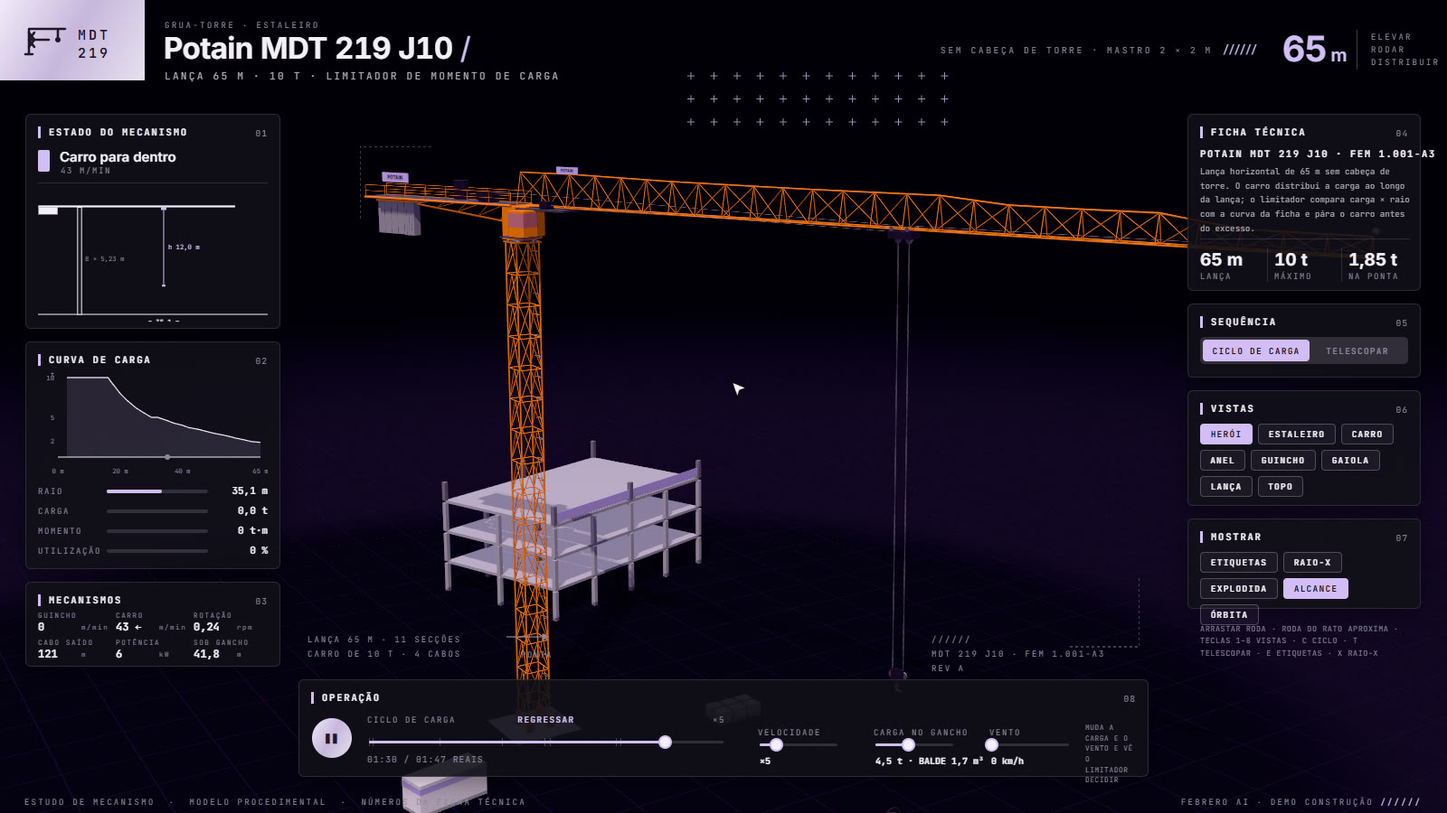
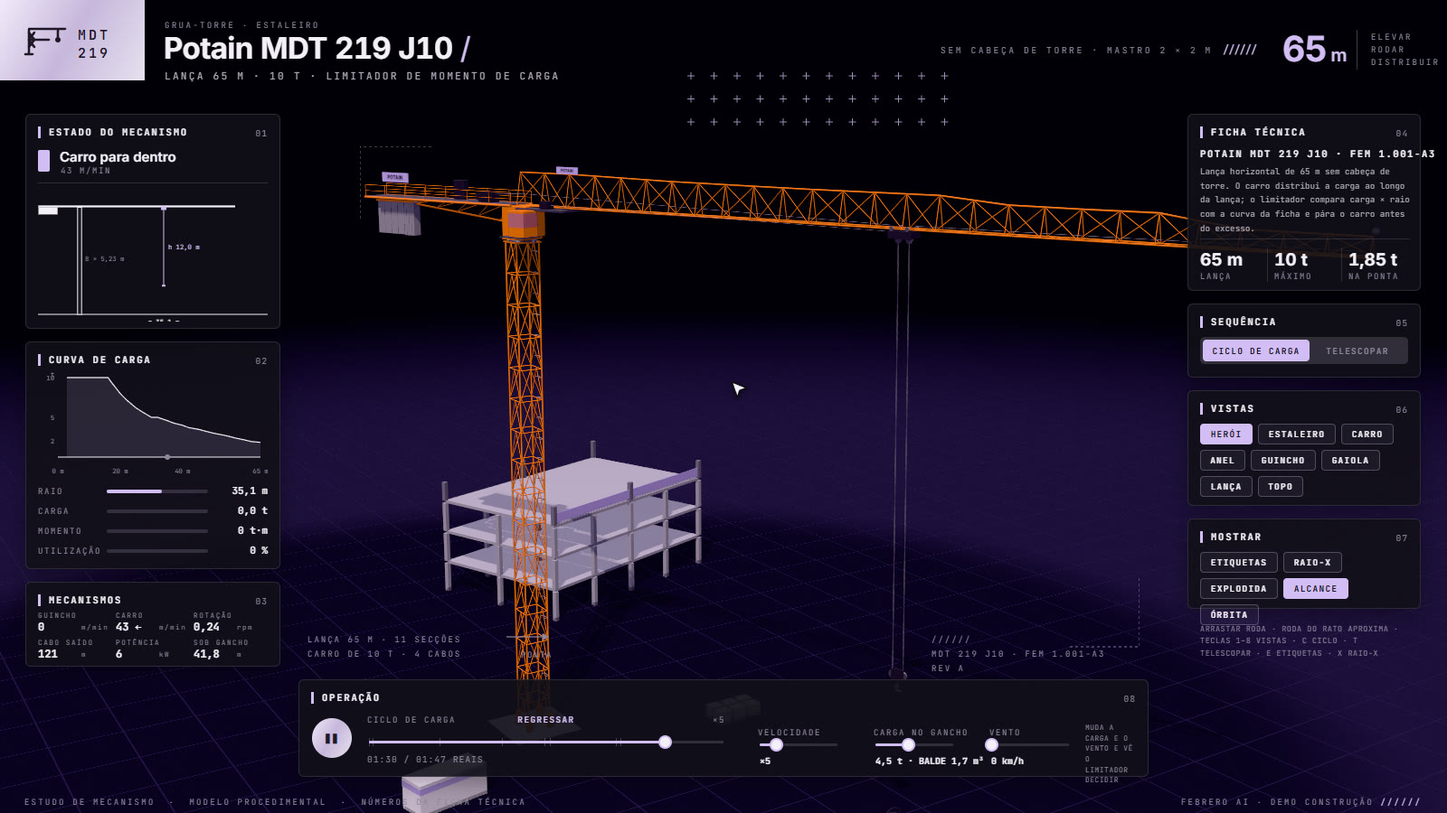
Crane page: lighter stage floor so the slab grid gives depth, phone hint under the frame

Changed region(s): [[0.1875, 0.4356, 0.8438, 0.7467], [0.8438, 0.56, 1.0, 1.0], [0.0, 0.56, 0.0312, 0.7467]]

diff --git a/demo/grua/simulador.html b/demo/grua/simulador.html
@@ -4881,7 +4881,7 @@ void main() {
 
 			#endif
 
-		}`};var rl=class extends cn{constructor(){super(),this.isOutputPass=!0,this.uniforms=Rn.clone(Xr.uniforms),this.material=new ws({name:Xr.name,uniforms:this.uniforms,vertexShader:Xr.vertexShader,fragmentShader:Xr.fragmentShader}),this._fsQuad=new Ui(this.material),this._outputColorSpace=null,this._toneMapping=null}render(t,e,n){this.uniforms.tDiffuse.value=n.texture,this.uniforms.toneMappingExposure.value=t.toneMappingExposure,(this._outputColorSpace!==t.outputColorSpace||this._toneMapping!==t.toneMapping)&&(this._outputColorSpace=t.outputColorSpace,this._toneMapping=t.toneMapping,this.material.defines={},re.getTransfer(this._outputColorSpace)===ge&&(this.material.defines.SRGB_TRANSFER=""),this._toneMapping===yr?this.material.defines.LINEAR_TONE_MAPPING="":this._toneMapping===Mr?this.material.defines.REINHARD_TONE_MAPPING="":this._toneMapping===Sr?this.material.defines.CINEON_TONE_MAPPING="":this._toneMapping===br?this.material.defines.ACES_FILMIC_TONE_MAPPING="":this._toneMapping===Tr?this.material.defines.AGX_TONE_MAPPING="":this._toneMapping===Yi?this.material.defines.NEUTRAL_TONE_MAPPING="":this._toneMapping===Er&&(this.material.defines.CUSTOM_TONE_MAPPING=""),this.material.needsUpdate=!0),this.renderToScreen===!0?(t.setRenderTarget(null),this._fsQuad.render(t)):(t.setRenderTarget(e),this.clear&&t.clear(t.autoClearColor,t.autoClearDepth,t.autoClearStencil),this._fsQuad.render(t))}dispose(){this.material.dispose(),this._fsQuad.dispose()}};var al=class extends cn{constructor(t,e,n=null,s=null,r=null){super(),this.scene=t,this.camera=e,this.overrideMaterial=n,this.clearColor=s,this.clearAlpha=r,this.clear=!0,this.clearDepth=!1,this.needsSwap=!1,this.isRenderPass=!0,this._oldClearColor=new Wt}render(t,e,n){let s=t.autoClear;t.autoClear=!1;let r,a;this.overrideMaterial!==null&&(a=this.scene.overrideMaterial,this.scene.overrideMaterial=this.overrideMaterial),this.clearColor!==null&&(t.getClearColor(this._oldClearColor),t.setClearColor(this.clearColor,t.getClearAlpha())),this.clearAlpha!==null&&(r=t.getClearAlpha(),t.setClearAlpha(this.clearAlpha)),this.clearDepth==!0&&t.clearDepth(),t.setRenderTarget(this.renderToScreen?null:n),this.clear===!0&&t.clear(t.autoClearColor,t.autoClearDepth,t.autoClearStencil),t.render(this.scene,this.camera),this.clearColor!==null&&t.setClearColor(this._oldClearColor),this.clearAlpha!==null&&t.setClearAlpha(r),this.overrideMaterial!==null&&(this.scene.overrideMaterial=a),t.autoClear=s}};var $r=new V;function Pn(i,t,e,n,s,r){let a=2*Math.PI*s/4,o=Math.max(r-2*s,0),c=Math.PI/4;$r.copy(t),$r[n]=0,$r.normalize();let l=.5*a/(a+o),u=1-$r.angleTo(i)/c;return Math.sign($r[e])===1?u*l:o/(a+o)+l+l*(1-u)}var ui=class i extends ce{constructor(t=1,e=1,n=1,s=2,r=.1){let a=s*2+1;if(r=Math.min(t/2,e/2,n/2,r),super(1,1,1,a,a,a),this.type="RoundedBoxGeometry",this.parameters={width:t,height:e,depth:n,segments:s,radius:r},a===1)return;let o=this.toNonIndexed();this.index=null,this.attributes.position=o.attributes.position,this.attributes.normal=o.attributes.normal,this.attributes.uv=o.attributes.uv;let c=new V,l=new V,u=new V(t,e,n).divideScalar(2).subScalar(r),f=this.attributes.position.array,h=this.attributes.normal.array,p=this.attributes.uv.array,_=f.length/6,y=new V,m=.5/a;for(let d=0,S=0;d<f.length;d+=3,S+=2)switch(c.fromArray(f,d),l.copy(c),l.x-=Math.sign(l.x)*m,l.y-=Math.sign(l.y)*m,l.z-=Math.sign(l.z)*m,l.normalize(),f[d+0]=u.x*Math.sign(c.x)+l.x*r,f[d+1]=u.y*Math.sign(c.y)+l.y*r,f[d+2]=u.z*Math.sign(c.z)+l.z*r,h[d+0]=l.x,h[d+1]=l.y,h[d+2]=l.z,Math.floor(d/_)){case 0:y.set(1,0,0),p[S+0]=Pn(y,l,"z","y",r,n),p[S+1]=1-Pn(y,l,"y","z",r,e);break;case 1:y.set(-1,0,0),p[S+0]=1-Pn(y,l,"z","y",r,n),p[S+1]=1-Pn(y,l,"y","z",r,e);break;case 2:y.set(0,1,0),p[S+0]=1-Pn(y,l,"x","z",r,t),p[S+1]=Pn(y,l,"z","x",r,n);break;case 3:y.set(0,-1,0),p[S+0]=1-Pn(y,l,"x","z",r,t),p[S+1]=1-Pn(y,l,"z","x",r,n);break;case 4:y.set(0,0,1),p[S+0]=1-Pn(y,l,"x","y",r,t),p[S+1]=1-Pn(y,l,"y","x",r,e);break;case 5:y.set(0,0,-1),p[S+0]=Pn(y,l,"x","y",r,t),p[S+1]=1-Pn(y,l,"y","x",r,e);break}}static fromJSON(t){return new i(t.width,t.height,t.depth,t.segments,t.radius)}};var Mn=V,Fi=Math.PI/180,Iu=1.5,Og=.6,Lu=Og+It.balde.altura,yn={amarelo:"#f6811e",escuro:"#3b3747",aco:"#c3bdd2",betao:"#a9a3b6",vidro:"#b9a8e6",vermelho:"#c8b4f9",branco:"#ebe5f4"},Bg=()=>({amarelo:new wn({color:yn.amarelo,roughness:.52,metalness:.08,clearcoat:.25,clearcoatRoughness:.4}),amareloMastro:new wn({color:yn.amarelo,roughness:.55,metalness:.08}),escuro:new wn({color:yn.escuro,roughness:.45,metalness:.3,clearcoat:.3}),aco:new dn({color:yn.aco,roughness:.45,metalness:.9}),cabo:new dn({color:"#a39cb3",roughness:.6,metalness:.6}),betao:new dn({color:yn.betao,roughness:.92,metalness:0}),betaoFresco:new dn({color:"#7d778c",roughness:.95,metalness:0}),lastro:new dn({color:"#9993a6",roughness:.9,metalness:0}),vidro:new wn({color:yn.vidro,roughness:.1,metalness:0,transmission:.6,transparent:!0,opacity:.75}),vermelho:new wn({color:yn.vermelho,roughness:.45,metalness:.05,clearcoat:.3}),branco:new dn({color:yn.branco,roughness:.7,metalness:0}),deck:new dn({color:"#565166",roughness:.85,metalness:.2}),borracha:new dn({color:"#2a2733",roughness:.85,metalness:0}),caixaAnel:new wn({color:yn.amarelo,roughness:.5,metalness:.08}),caixaGuincho:new wn({color:yn.escuro,roughness:.45,metalness:.3}),caixaCarro:new wn({color:yn.escuro,roughness:.45,metalness:.3})}),zg=new ze(1,1,1,8,1),Du=new ce(1,1,1),kg=new Mn(0,1,0),pn=class{constructor(t,e,n,s=zg){this.mesh=new sr(s,e,n),this.mesh.castShadow=!0,this.mesh.receiveShadow=!0,this.mesh.frustumCulled=!1,this.n=0,this.max=n,this.m=new ue,this.q=new Tn,this.p=new Mn,this.s=new Mn,this.d=new Mn,t.add(this.mesh)}reset(){this.n=0}add(t,e,n,s=n){if(this.n>=this.max)return;let r=t.x??t[0],a=t.y??t[1],o=t.z??t[2],c=e.x??e[0],l=e.y??e[1],u=e.z??e[2];this.d.set(c-r,l-a,u-o);let f=this.d.length();f<1e-6||(this.d.divideScalar(f),this.q.setFromUnitVectors(kg,this.d),this.p.set((r+c)/2,(a+l)/2,(o+u)/2),this.s.set(n,f,s),this.m.compose(this.p,this.q,this.s),this.mesh.setMatrixAt(this.n++,this.m))}commit(){this.mesh.count=this.n,this.mesh.instanceMatrix.needsUpdate=!0}},qr=[[0,It.lanca.seccoes[0].h],...ji.map(i=>[i.centro,i.h]),[It.lanca.comprimento,ji[ji.length-1].h]],Dc=i=>{for(let t=0;t<qr.length-1;t++){let[e,n]=qr[t],[s,r]=qr[t+1];if(i<=s)return n+(i-e)/(s-e)*(r-n)}return qr[qr.length-1][1]};function Vg(i,t="#ffffff",e=yn.vermelho,n=1024,s=256){let r=document.createElement("canvas");r.width=n,r.height=s;let a=r.getContext("2d");a.fillStyle=e,a.fillRect(0,0,n,s),a.fillStyle=t,a.font=`900 ${s*.62}px Inter, Arial, sans-serif`,a.textAlign="center",a.textBaseline="middle",a.fillText(i,n/2,s/2+s*.02);let o=new ar(r);return o.colorSpace=Xe,o.anisotropy=8,o}function Nu(){let i=Bg(),t=[],e=(tt,mt,ft,$t=!0)=>{let he=new xe(mt,ft);return he.castShadow=$t,he.receiveShadow=$t,tt.add(he),t.push(he),he},n=new be,s=It.mastro.lado,r=It.mastro.seccao.L,a=It.base,o=e(n,new ce(a.lado,a.h,a.lado),i.betao);o.position.y=-a.h/2+.02;for(let tt of[-1,1])for(let mt of[-1,1])e(n,new ce(.36,1.2,.36),i.amareloMastro).position.set(tt*s/2,.6,mt*s/2);let c=new pn(n,i.amareloMastro,40*(It.seccoesMax+1)),l=new pn(n,i.aco,30*(It.seccoesMax+1)),u=(tt,mt,ft,$t,he=1)=>{let se=s/2,pe=[[-se,-se],[se,-se],[se,se],[-se,se]];for(let[Ee,me]of pe)tt.add([ft+Ee,mt,$t+me],[ft+Ee,mt+r*he,$t+me],.07);let ye=r/2;for(let Ee=0;Ee<4;Ee++){let[me,nn]=pe[Ee],[Ye,In]=pe[(Ee+1)%4];for(let zi=0;zi<2;zi++){let Ie=mt+zi*ye,sn=Ie+ye,v=(me+Ye)/2,F=(nn+In)/2;tt.add([ft+me,sn,$t+nn],[ft+Ye,sn,$t+In],.045),tt.add([ft+me,Ie,$t+nn],[ft+v,sn,$t+F],.04),tt.add([ft+Ye,Ie,$t+In],[ft+v,sn,$t+F],.04)}}},f=(tt,mt)=>{for(let ft=0;ft<3;ft++){let $t=mt+(ft+.5)*(r/3);tt.add([s/2+.02,$t,-.35],[s/2+.3,$t,-.35],.04),tt.add([s/2+.02,$t,.35],[s/2+.3,$t,.35],.04),tt.add([s/2+.3,$t,-.35],[s/2+.3,$t,.35],.04)}},h=-1,p=-1,_=(tt,mt)=>{if(!(tt===h&&Math.abs(mt-p)<.001)){h=tt,p=mt,c.reset(),l.reset();for(let ft=0;ft<tt;ft++){let $t=ft*r+ft*1.6*mt;u(c,$t,0,0),f(l,$t)}c.commit(),l.commit()}},y=It.mastro.gaiola,m=new be;n.add(m);let d=[],S=tt=>{let mt=tt.clone();return mt.transparent=!0,d.push(mt),mt};i.gaiolaVermelho=S(i.vermelho),i.gaiolaDeck=S(i.deck),i.gaiolaEscuro=S(i.escuro),i.gaiolaAco=S(i.aco);let L=new pn(m,i.gaiolaVermelho,120);{let mt=-y.h+2.4,ft=2.4,$t=[[-1.45,-1.45],[1.45,-1.45],[1.45,1.45],[-1.45,1.45]];for(let[he,se]of $t)L.add([he,mt,se],[he,ft,se],.09);for(let he of[mt,mt+2.9,mt+5.8,ft-.3])for(let se=0;se<4;se++){let[pe,ye]=$t[se],[Ee,me]=$t[(se+1)%4];he>mt+5&&he<ft-.5&&se===1||L.add([pe,he,ye],[Ee,he,me],.06)}for(let he of[0,2,3]){let[se,pe]=$t[he],[ye,Ee]=$t[(he+1)%4];for(let me=0;me<3;me++){let nn=mt+me*2.9,Ye=nn+2.9;L.add([se,nn,pe],[ye,Ye,Ee],.04)}}for(let he of[mt+.6,ft-.8])for(let[se,pe]of $t)L.add([se*.78,he,pe*.78],[se*.78,he+.3,pe*.78],.13);L.commit()}let M=new be;M.position.y=-r,m.add(M),e(M,new ce(y.L,.12,3.2),i.gaiolaDeck).position.set(1.45+y.L/2,-.06,0);let b=new pn(M,i.gaiolaVermelho,40);for(let tt of[-1.6,1.6])b.add([1.6,0,tt],[1.6,1.1,tt],.03),b.add([1.45+y.L,0,tt],[1.45+y.L,1.1,tt],.03),b.add([1.6,1.1,tt],[1.45+y.L,1.1,tt],.03);b.add([1.45+y.L,1.1,-1.6],[1.45+y.L,1.1,1.6],.03),b.commit(),e(m,new ze(.19,.19,3.2,20),i.gaiolaEscuro).position.set(s/2+.62,-y.h+2.4+5.2,0);let x=e(m,new ze(.09,.09,1,14),i.gaiolaAco),E=e(m,new ce(.5,.16,.9),i.gaiolaEscuro),I=-1,U=tt=>{if(!(Math.abs(tt-I)<.001)){I=tt;for(let mt of d)mt.opacity=tt,mt.depthWrite=tt>.5,mt.needsUpdate=!0}},N=new be;n.add(N);let P=It.anel,D=e(N,new ze(P.diametro/2,P.diametro/2,.26,64),i.aco);D.position.y=.13;let G=e(N,new ce(s+.3,.12,s+.3),i.amareloMastro);G.position.y=0;let Z=new pn(N,i.aco,P.dentes,Du);for(let tt=0;tt<P.dentes;tt++){let mt=tt/P.dentes*Math.PI*2,ft=P.diametro/2,$t=ft+.06;Z.add([ft*Math.cos(mt),.13,ft*Math.sin(mt)],[$t*Math.cos(mt),.13,$t*Math.sin(mt)],.035,.2)}Z.commit();let W=new be;N.add(W);let j=It.pivot,q=e(W,new ce(j.l,.22,j.l),i.caixaAnel);q.position.y=Qi-.11;let Q=(P.diametro/2+.06)*(P.dentesPinhao/P.dentes)+.02,et=[];for(let tt of[-1,1]){let mt=tt*(P.diametro/2+.06+Q),ft=new be;ft.position.set(mt,.13,0),W.add(ft),e(ft,new ze(Q-.03,Q-.03,.22,24),i.aco);let $t=new pn(ft,i.aco,P.dentesPinhao,Du);for(let se=0;se<P.dentesPinhao;se++){let pe=se/P.dentesPinhao*Math.PI*2;$t.add([(Q-.04)*Math.cos(pe),0,(Q-.04)*Math.sin(pe)],[(Q+.03)*Math.cos(pe),0,(Q+.03)*Math.sin(pe)],.03,.2)}$t.commit(),e(W,new ze(.21,.24,.7,20),i.escuro).position.set(mt,Qi+.35,0),et.push(ft)}e(W,new ui(j.L*.55,j.h,j.l,3,.08),i.caixaAnel).position.set(.2,Qi+j.h/2,0);let pt=new be;pt.position.set(2,Qi+.2,j.l/2+.85),W.add(pt),e(pt,new ui(1.6,2.1,1.6,3,.06),i.amarelo).position.y=1.05,e(pt,new ce(1.62,1.1,1.62),i.vidro,!1).position.y=1.35,e(pt,new ce(2.6,.08,1.9),i.deck).position.set(-.3,-.02,.1);let at=Qi+j.h,kt=It.lanca.larguraCordas/2,R=new be;W.add(R);let B=ji.map(tt=>{let mt=new be;mt.userData.s=tt,R.add(mt);let ft=new pn(mt,i.amarelo,90),he=Math.max(1,Math.round((tt.x1-tt.x0)/2.5)),se=(tt.x1-tt.x0)/he;for(let pe=0;pe<=he;pe++){let ye=tt.x0+pe*se,Ee=at+Dc(ye);if(ft.add([ye,at,-kt],[ye,Ee,0],.035),ft.add([ye,at,kt],[ye,Ee,0],.035),pe<he){let me=ye+se,nn=at+Dc(me);ft.add([ye,at,-kt],[me,at,-kt],.062),ft.add([ye,at,kt],[me,at,kt],.062),ft.add([ye,Ee,0],[me,nn,0],.062);let Ye=(Math.round(ye/se)+tt.n)%2===0;ft.add(Ye?[ye,at,-kt]:[me,at,-kt],Ye?[me,nn,0]:[ye,Ee,0],.03),ft.add(Ye?[me,at,kt]:[ye,at,kt],Ye?[ye,Ee,0]:[me,nn,0],.03),ft.add(Ye?[ye,at,-kt]:[ye,at,kt],Ye?[me,at,kt]:[me,at,-kt],.028)}}return ft.commit(),mt});e(W,new ce(5,.16,2.9),i.deck).position.set(3.2,at-.2,0),e(W,new ce(.9,.6,.7),i.escuro).position.set(3.6,at+.2,.95);let st=e(W,new cr(.22,16,12),i.vermelho);st.position.set(65.1,at+Dc(65)+.3,0);let St=new dn({map:Vg("POTAIN","#1d1726"),roughness:.7}),Ht=(tt,mt,ft,$t,he,se,pe=.06)=>{for(let Ee of[1,-1]){let me=e(tt,new _n(mt,ft),St,!1);me.position.set($t,he,se+Ee*pe/2),me.rotation.y=Ee>0?0:Math.PI}e(tt,new ce(mt,ft,pe*.9),i.vermelho,!1).position.set($t,he,se)};Ht(W,2.2,.55,5.5,at+2.95,.56);let Mt=It.contralanca,Dt=new be;W.add(Dt);let Gt=new pn(Dt,i.amarelo,160),wt=Mt.largura/2,Jt=7;for(let tt=0;tt<=Jt;tt++){let mt=-(tt/Jt)*Mt.comprimento;if(Gt.add([mt,at,-wt],[mt,at,wt],.05),tt<Jt){let ft=-((tt+1)/Jt)*Mt.comprimento;Gt.add([mt,at,-wt],[ft,at,-wt],.11,.2),Gt.add([mt,at,wt],[ft,at,wt],.11,.2),Gt.add(tt%2?[mt,at,-wt]:[mt,at,wt],tt%2?[ft,at,wt]:[ft,at,-wt],.035),Gt.add([mt,at-1.6*(1-tt/Jt),0],[ft,at-1.6*(1-(tt+1)/Jt),0],.08),Gt.add([mt,at,-wt],[ft,at-1.6*(1-(tt+1)/Jt),0],.03),Gt.add([mt,at,wt],[ft,at-1.6*(1-(tt+1)/Jt),0],.03)}for(let ft of[-wt,wt])Gt.add([mt,at,ft],[mt,at+1.05,ft],.025)}for(let tt of[-wt,wt])Gt.add([0,at+1.05,tt],[-Mt.comprimento,at+1.05,tt],.025),Gt.add([0,at+.55,tt],[-Mt.comprimento,at+.55,tt],.02);Gt.commit(),e(Dt,new ce(Mt.comprimento,.06,Mt.largura-.3),i.deck).position.set(-Mt.comprimento/2,at+.07,0);let te=It.guincho,ee=new be;ee.position.set(-3.6,at+.1,0),Dt.add(ee);let jt=e(ee,new ui(te.L,te.h,te.l,2,.05),i.caixaGuincho);jt.position.y=te.h/2;let A=e(ee,new ze(te.tambor/2,te.tambor/2,te.l-.1,28),i.aco);A.rotation.x=Math.PI/2,A.position.y=te.h/2;let Ft=e(ee,new ce(.03,te.tambor+.02,te.l-.1),i.escuro);Ft.position.y=te.h/2;let Vt=e(ee,new ze(.28,.3,.75,20),i.escuro);Vt.rotation.x=Math.PI/2,Vt.position.set(-te.L/2-.2,te.h/2,0),e(Dt,new ui(1.2,1.6,.6,2,.04),i.escuro).position.set(-7.5,at+.9,-.7);let g=new be;Dt.add(g);let z=[];{let tt=-Mt.comprimento+.6,mt=[...Array(4).fill(It.lastro.blocos[0]),...Array(4).fill(It.lastro.blocos[1])];for(let ft of mt){let $t=e(g,new ce(ft.e,ft.L,ft.l),i.lastro);$t.position.set(tt+ft.e/2,at-.3-ft.L/2,0),$t.userData.x0=$t.position.x,z.push($t),tt+=ft.e+.03}for(let ft of[-.5,.5])e(g,new ce(4.6,.18,.12),i.amarelo).position.set(-Mt.comprimento+2.9,at-.25,ft)}Ht(Dt,3.2,.8,-Mt.comprimento+2.5,at+1.7,0,.1);let k=It.carro,Y=new be;W.add(Y);let rt=e(Y,new ui(k.L,k.h*.55,k.l,2,.04),i.caixaCarro);rt.position.y=at-.12-k.h*.55/2;for(let tt of[-1,1])for(let mt of[-1,1]){let ft=e(Y,new ze(.16,.16,.12,18),i.aco);ft.rotation.x=Math.PI/2,ft.position.set(tt*.6,at+.02,mt*(kt+.1))}for(let tt of[-1,1]){let mt=e(Y,new ze(.26,.26,.1,24),i.aco);mt.rotation.x=Math.PI/2,mt.position.set(tt*.42,at-.12-k.h*.55-.1,0)}let dt=It.moufle,J=new be;W.add(J);for(let tt of[-1,1])e(J,new ui(dt.L*.62,dt.h*.58,.05,2,.03),i.escuro).position.set(0,dt.h*.58/2+.72,tt*(dt.l/2-.03));for(let tt of[-1,1]){let mt=e(J,new ze(.3,.3,.14,24),i.aco);mt.rotation.x=Math.PI/2,mt.position.set(tt*.42,1.28,0)}let nt=e(J,new Xi(.26,.085,12,24,Math.PI*1.25),i.aco);nt.rotation.z=Math.PI*.62,nt.position.set(.1,.32,0),e(J,new ze(.075,.075,.55,12),i.aco).position.set(0,.62,0);let At=new pn(W,i.cabo,16),ct=It.balde,ht=new be;n.add(ht);let Ct=e(ht,new ze(ct.diametro/2,ct.diametro/2-.12,ct.altura-.55,28,1,!0),i.amarelo);Ct.material=i.amarelo.clone(),Ct.material.side=ln,Ct.position.y=.55+(ct.altura-.55)/2;let Bt=e(ht,new ze(ct.diametro/2-.12,.28,.55,28),i.amarelo);Bt.position.y=.275;let Xt=e(ht,new Xi(ct.diametro/2+.02,.04,8,32),i.escuro);Xt.rotation.x=Math.PI/2,Xt.position.y=ct.altura;let O=e(ht,new ze(ct.diametro/2-.08,ct.diametro/2-.1,1,28),i.betaoFresco);e(ht,new ce(.6,.06,.06),i.escuro).position.set(ct.diametro/2+.2,.6,0);let it=e(ht,new Xi(ct.diametro/2-.05,.045,8,24,Math.PI),i.escuro);it.position.y=ct.altura;let gt=new pn(ht,i.cabo,4),xt=new be;n.add(xt);let ot=new pn(xt,i.amareloMastro,40);u(ot,0,0,0),ot.commit();let Ot=new pn(xt,i.cabo,4),Lt=new On({color:"#d2bef4",transparent:!0,opacity:.55,depthWrite:!1}),ve=new On({color:yn.vermelho,transparent:!0,opacity:.8,depthWrite:!1}),ae=new xe(new Ts(.985,1,128),Lt);ae.rotation.x=-Math.PI/2,ae.position.y=.05,ae.renderOrder=5;let Ge=new xe(new Ts(.985,1,128,1),ve);Ge.rotation.x=-Math.PI/2,Ge.position.y=.06,Ge.renderOrder=5,n.add(ae,Ge);let qe=e(n,new ce(1,.02,.1),Lt,!1);qe.position.y=.055;let Zr=-1,dl=tt=>{if(!(Math.abs(tt-Zr)<.001)){Zr=tt;for(let mt of[i.caixaAnel,i.caixaGuincho,i.caixaCarro])mt.transparent=tt>.001,mt.opacity=1-.82*tt,mt.depthWrite=tt<.5,mt.needsUpdate=!0}},hn={yG:0,carroW:new Mn,moufleW:new Mn,pontaW:new Mn,guinchoW:new Mn,anelW:new Mn,gaiolaW:new Mn,cabW:new Mn,lastroW:new Mn},Sn=new Mn,Jr=tt=>{let mt=tt.explode??0;dl(tt.xray??0),_(tt.n,mt);let ft=zr(tt.n,tt.gaiola)+tt.n*1.6*mt;hn.yG=ft,N.position.y=ft,W.rotation.y=-tt.az*Fi;for(let[Ie,sn]of et.entries())sn.rotation.y=(Ie?1:-1)*tt.az*Fi*(P.dentes/P.dentesPinhao)*1+tt.az*Fi;m.position.y=ft;let $t=(tt.gaiolaVis??(tt.seccao||tt.gaiola>.01?1:0))*(1-mt);U($t),m.visible=$t>.01;let he=Math.floor((ft-tt.gaiola-8.3)/(r/3))*(r/3)+r/6,se=-y.h+2.4+5.2-1.6,pe=he-ft;x.scale.y=Math.max(.2,se-pe),x.position.set(s/2+.62,(se+pe)/2,0),E.position.set(s/2+.45,pe-.08,0);for(let Ie of B)Ie.position.x=(Ie.userData.s.n-1)*1.8*mt;Dt.position.x=-2.2*mt;for(let[Ie,sn]of z.entries())sn.position.x=sn.userData.x0-Ie*.7*mt;Y.position.x=tt.r+(tt.r>20.3?2*1.8*mt:tt.r>10.5?1.8*mt:0);let ye=tt.h-ft;J.position.set(Y.position.x+tt.thR*(ft+at-tt.h),ye,tt.thT*(ft+at-tt.h)),J.rotation.z=-tt.thR,J.rotation.x=tt.thT,At.reset();let Ee=at-.12-k.h*.55-.1;for(let Ie of[-1,1])for(let sn of[-1,1])At.add([Y.position.x+Ie*.42,Ee,sn*.05],[J.position.x+Ie*.42,J.position.y+1.28,J.position.z+sn*.05],.014);At.add([-3.6,at+.1+te.h/2+te.tambor/2,.1],[.6,at+.9,.1],.016),At.add([.6,at+.9,.1],[Y.position.x-k.L/2,at+.2,.1],.016),At.add([Y.position.x+k.L/2,at+.2,-.1],[64.6,at+.3,-.1],.016),At.add([3.6,at+.2,.95],[Y.position.x-k.L/2,at-.2,.5],.012),At.commit(),A.rotation.z=tt.cabo/(Math.PI*te.tambor)*Math.PI*2;let me=tt.carga>0&&!tt.seccao,nn=Math.max(0,tt.balde-ct.vazio),Ye=Math.min(1,nn/(ct.capacidade*ct.densidade));if(O.scale.y=Math.max(.02,Ye*(ct.altura-.6)),O.position.y=.55+O.scale.y/2,me?(J.getWorldPosition(Sn),ht.position.set(Sn.x,Sn.y-Lu,Sn.z),ht.rotation.y=-tt.az*Fi,ht.rotation.z=-tt.thR):(ht.position.set(tt.baldeX??20,.02,tt.baldeZ??0),ht.rotation.set(0,0,0)),gt.reset(),me)for(let Ie of[[-1,-1],[1,-1],[1,1],[-1,1]])gt.add([0,Lu,0],[Ie[0]*.55,ct.altura,Ie[1]*.55],.018);if(gt.commit(),xt.visible=!!tt.seccao,Ot.reset(),tt.seccao==="gancho"){J.getWorldPosition(Sn),xt.position.set(Sn.x,Sn.y-Iu-r,Sn.z),xt.rotation.y=-tt.az*Fi;for(let Ie of[[-1,-1],[1,-1],[1,1],[-1,1]])Ot.add([0,r+Iu,0],[Ie[0]*s/2,r,Ie[1]*s/2],.02)}else if(tt.seccao==="plataforma"||tt.seccao==="deslizar"){let Ie=It.telescopagem.plataforma*(1-(tt.desliza??0));xt.position.set(Ie,zr(tt.n,0),0),xt.rotation.y=0}Ot.commit();let In=tt.alcance??0;ae.visible=In>.01,Ge.visible=In>.01&&tt.carga>0,qe.visible=In>.01,ae.scale.setScalar(tt.r),Lt.opacity=.55*In,ve.opacity=.8*In;let zi=Us(tt.carga);Ge.scale.setScalar(Math.max(.1,zi)),qe.scale.x=65,qe.position.set(32.5*Math.cos(tt.az*Fi),.055,32.5*Math.sin(tt.az*Fi)),qe.rotation.y=-tt.az*Fi,Y.getWorldPosition(hn.carroW),J.getWorldPosition(hn.moufleW),st.getWorldPosition(hn.pontaW),ee.getWorldPosition(hn.guinchoW),D.getWorldPosition(hn.anelW),m.getWorldPosition(hn.gaiolaW),pt.getWorldPosition(hn.cabW),g.getWorldPosition(hn.lastroW),hn.lastroW.x-=Mt.comprimento*.8};return Jr({r:20,h:2.9,az:0,carga:0,n:It.seccoesIniciais,gaiola:0,cabo:0,balde:4.5,thR:0,thT:0}),{root:n,update:Jr,M:i,todos:t,out:hn,gir:W,giratoria:N,mastro:c,carro:Y,moufle:J,balde:ht,secNova:xt,gaiola:m,alturaSobGancho:tt=>wu(tt.n,tt.gaiola),yLanca:tt=>ts(tt.n,tt.gaiola)}}var ti=V,Bs={bg:"#0b0a10",chao:"#16141d",marca:"#2c2738",sombra:"#000000"},Gg="varying vec3 vW; void main(){ vec4 w = modelMatrix * vec4(position, 1.0); vW = w.xyz; gl_Position = projectionMatrix * viewMatrix * w; }",Hg=`uniform vec3 uG; uniform vec3 uM; uniform vec3 uBg; uniform vec3 uC; varying vec3 vW;
+		}`};var rl=class extends cn{constructor(){super(),this.isOutputPass=!0,this.uniforms=Rn.clone(Xr.uniforms),this.material=new ws({name:Xr.name,uniforms:this.uniforms,vertexShader:Xr.vertexShader,fragmentShader:Xr.fragmentShader}),this._fsQuad=new Ui(this.material),this._outputColorSpace=null,this._toneMapping=null}render(t,e,n){this.uniforms.tDiffuse.value=n.texture,this.uniforms.toneMappingExposure.value=t.toneMappingExposure,(this._outputColorSpace!==t.outputColorSpace||this._toneMapping!==t.toneMapping)&&(this._outputColorSpace=t.outputColorSpace,this._toneMapping=t.toneMapping,this.material.defines={},re.getTransfer(this._outputColorSpace)===ge&&(this.material.defines.SRGB_TRANSFER=""),this._toneMapping===yr?this.material.defines.LINEAR_TONE_MAPPING="":this._toneMapping===Mr?this.material.defines.REINHARD_TONE_MAPPING="":this._toneMapping===Sr?this.material.defines.CINEON_TONE_MAPPING="":this._toneMapping===br?this.material.defines.ACES_FILMIC_TONE_MAPPING="":this._toneMapping===Tr?this.material.defines.AGX_TONE_MAPPING="":this._toneMapping===Yi?this.material.defines.NEUTRAL_TONE_MAPPING="":this._toneMapping===Er&&(this.material.defines.CUSTOM_TONE_MAPPING=""),this.material.needsUpdate=!0),this.renderToScreen===!0?(t.setRenderTarget(null),this._fsQuad.render(t)):(t.setRenderTarget(e),this.clear&&t.clear(t.autoClearColor,t.autoClearDepth,t.autoClearStencil),this._fsQuad.render(t))}dispose(){this.material.dispose(),this._fsQuad.dispose()}};var al=class extends cn{constructor(t,e,n=null,s=null,r=null){super(),this.scene=t,this.camera=e,this.overrideMaterial=n,this.clearColor=s,this.clearAlpha=r,this.clear=!0,this.clearDepth=!1,this.needsSwap=!1,this.isRenderPass=!0,this._oldClearColor=new Wt}render(t,e,n){let s=t.autoClear;t.autoClear=!1;let r,a;this.overrideMaterial!==null&&(a=this.scene.overrideMaterial,this.scene.overrideMaterial=this.overrideMaterial),this.clearColor!==null&&(t.getClearColor(this._oldClearColor),t.setClearColor(this.clearColor,t.getClearAlpha())),this.clearAlpha!==null&&(r=t.getClearAlpha(),t.setClearAlpha(this.clearAlpha)),this.clearDepth==!0&&t.clearDepth(),t.setRenderTarget(this.renderToScreen?null:n),this.clear===!0&&t.clear(t.autoClearColor,t.autoClearDepth,t.autoClearStencil),t.render(this.scene,this.camera),this.clearColor!==null&&t.setClearColor(this._oldClearColor),this.clearAlpha!==null&&t.setClearAlpha(r),this.overrideMaterial!==null&&(this.scene.overrideMaterial=a),t.autoClear=s}};var $r=new V;function Pn(i,t,e,n,s,r){let a=2*Math.PI*s/4,o=Math.max(r-2*s,0),c=Math.PI/4;$r.copy(t),$r[n]=0,$r.normalize();let l=.5*a/(a+o),u=1-$r.angleTo(i)/c;return Math.sign($r[e])===1?u*l:o/(a+o)+l+l*(1-u)}var ui=class i extends ce{constructor(t=1,e=1,n=1,s=2,r=.1){let a=s*2+1;if(r=Math.min(t/2,e/2,n/2,r),super(1,1,1,a,a,a),this.type="RoundedBoxGeometry",this.parameters={width:t,height:e,depth:n,segments:s,radius:r},a===1)return;let o=this.toNonIndexed();this.index=null,this.attributes.position=o.attributes.position,this.attributes.normal=o.attributes.normal,this.attributes.uv=o.attributes.uv;let c=new V,l=new V,u=new V(t,e,n).divideScalar(2).subScalar(r),f=this.attributes.position.array,h=this.attributes.normal.array,p=this.attributes.uv.array,_=f.length/6,y=new V,m=.5/a;for(let d=0,S=0;d<f.length;d+=3,S+=2)switch(c.fromArray(f,d),l.copy(c),l.x-=Math.sign(l.x)*m,l.y-=Math.sign(l.y)*m,l.z-=Math.sign(l.z)*m,l.normalize(),f[d+0]=u.x*Math.sign(c.x)+l.x*r,f[d+1]=u.y*Math.sign(c.y)+l.y*r,f[d+2]=u.z*Math.sign(c.z)+l.z*r,h[d+0]=l.x,h[d+1]=l.y,h[d+2]=l.z,Math.floor(d/_)){case 0:y.set(1,0,0),p[S+0]=Pn(y,l,"z","y",r,n),p[S+1]=1-Pn(y,l,"y","z",r,e);break;case 1:y.set(-1,0,0),p[S+0]=1-Pn(y,l,"z","y",r,n),p[S+1]=1-Pn(y,l,"y","z",r,e);break;case 2:y.set(0,1,0),p[S+0]=1-Pn(y,l,"x","z",r,t),p[S+1]=Pn(y,l,"z","x",r,n);break;case 3:y.set(0,-1,0),p[S+0]=1-Pn(y,l,"x","z",r,t),p[S+1]=1-Pn(y,l,"z","x",r,n);break;case 4:y.set(0,0,1),p[S+0]=1-Pn(y,l,"x","y",r,t),p[S+1]=1-Pn(y,l,"y","x",r,e);break;case 5:y.set(0,0,-1),p[S+0]=Pn(y,l,"x","y",r,t),p[S+1]=1-Pn(y,l,"y","x",r,e);break}}static fromJSON(t){return new i(t.width,t.height,t.depth,t.segments,t.radius)}};var Mn=V,Fi=Math.PI/180,Iu=1.5,Og=.6,Lu=Og+It.balde.altura,yn={amarelo:"#f6811e",escuro:"#3b3747",aco:"#c3bdd2",betao:"#a9a3b6",vidro:"#b9a8e6",vermelho:"#c8b4f9",branco:"#ebe5f4"},Bg=()=>({amarelo:new wn({color:yn.amarelo,roughness:.52,metalness:.08,clearcoat:.25,clearcoatRoughness:.4}),amareloMastro:new wn({color:yn.amarelo,roughness:.55,metalness:.08}),escuro:new wn({color:yn.escuro,roughness:.45,metalness:.3,clearcoat:.3}),aco:new dn({color:yn.aco,roughness:.45,metalness:.9}),cabo:new dn({color:"#a39cb3",roughness:.6,metalness:.6}),betao:new dn({color:yn.betao,roughness:.92,metalness:0}),betaoFresco:new dn({color:"#7d778c",roughness:.95,metalness:0}),lastro:new dn({color:"#9993a6",roughness:.9,metalness:0}),vidro:new wn({color:yn.vidro,roughness:.1,metalness:0,transmission:.6,transparent:!0,opacity:.75}),vermelho:new wn({color:yn.vermelho,roughness:.45,metalness:.05,clearcoat:.3}),branco:new dn({color:yn.branco,roughness:.7,metalness:0}),deck:new dn({color:"#565166",roughness:.85,metalness:.2}),borracha:new dn({color:"#2a2733",roughness:.85,metalness:0}),caixaAnel:new wn({color:yn.amarelo,roughness:.5,metalness:.08}),caixaGuincho:new wn({color:yn.escuro,roughness:.45,metalness:.3}),caixaCarro:new wn({color:yn.escuro,roughness:.45,metalness:.3})}),zg=new ze(1,1,1,8,1),Du=new ce(1,1,1),kg=new Mn(0,1,0),pn=class{constructor(t,e,n,s=zg){this.mesh=new sr(s,e,n),this.mesh.castShadow=!0,this.mesh.receiveShadow=!0,this.mesh.frustumCulled=!1,this.n=0,this.max=n,this.m=new ue,this.q=new Tn,this.p=new Mn,this.s=new Mn,this.d=new Mn,t.add(this.mesh)}reset(){this.n=0}add(t,e,n,s=n){if(this.n>=this.max)return;let r=t.x??t[0],a=t.y??t[1],o=t.z??t[2],c=e.x??e[0],l=e.y??e[1],u=e.z??e[2];this.d.set(c-r,l-a,u-o);let f=this.d.length();f<1e-6||(this.d.divideScalar(f),this.q.setFromUnitVectors(kg,this.d),this.p.set((r+c)/2,(a+l)/2,(o+u)/2),this.s.set(n,f,s),this.m.compose(this.p,this.q,this.s),this.mesh.setMatrixAt(this.n++,this.m))}commit(){this.mesh.count=this.n,this.mesh.instanceMatrix.needsUpdate=!0}},qr=[[0,It.lanca.seccoes[0].h],...ji.map(i=>[i.centro,i.h]),[It.lanca.comprimento,ji[ji.length-1].h]],Dc=i=>{for(let t=0;t<qr.length-1;t++){let[e,n]=qr[t],[s,r]=qr[t+1];if(i<=s)return n+(i-e)/(s-e)*(r-n)}return qr[qr.length-1][1]};function Vg(i,t="#ffffff",e=yn.vermelho,n=1024,s=256){let r=document.createElement("canvas");r.width=n,r.height=s;let a=r.getContext("2d");a.fillStyle=e,a.fillRect(0,0,n,s),a.fillStyle=t,a.font=`900 ${s*.62}px Inter, Arial, sans-serif`,a.textAlign="center",a.textBaseline="middle",a.fillText(i,n/2,s/2+s*.02);let o=new ar(r);return o.colorSpace=Xe,o.anisotropy=8,o}function Nu(){let i=Bg(),t=[],e=(tt,mt,ft,$t=!0)=>{let he=new xe(mt,ft);return he.castShadow=$t,he.receiveShadow=$t,tt.add(he),t.push(he),he},n=new be,s=It.mastro.lado,r=It.mastro.seccao.L,a=It.base,o=e(n,new ce(a.lado,a.h,a.lado),i.betao);o.position.y=-a.h/2+.02;for(let tt of[-1,1])for(let mt of[-1,1])e(n,new ce(.36,1.2,.36),i.amareloMastro).position.set(tt*s/2,.6,mt*s/2);let c=new pn(n,i.amareloMastro,40*(It.seccoesMax+1)),l=new pn(n,i.aco,30*(It.seccoesMax+1)),u=(tt,mt,ft,$t,he=1)=>{let se=s/2,pe=[[-se,-se],[se,-se],[se,se],[-se,se]];for(let[Ee,me]of pe)tt.add([ft+Ee,mt,$t+me],[ft+Ee,mt+r*he,$t+me],.07);let ye=r/2;for(let Ee=0;Ee<4;Ee++){let[me,nn]=pe[Ee],[Ye,In]=pe[(Ee+1)%4];for(let zi=0;zi<2;zi++){let Ie=mt+zi*ye,sn=Ie+ye,v=(me+Ye)/2,F=(nn+In)/2;tt.add([ft+me,sn,$t+nn],[ft+Ye,sn,$t+In],.045),tt.add([ft+me,Ie,$t+nn],[ft+v,sn,$t+F],.04),tt.add([ft+Ye,Ie,$t+In],[ft+v,sn,$t+F],.04)}}},f=(tt,mt)=>{for(let ft=0;ft<3;ft++){let $t=mt+(ft+.5)*(r/3);tt.add([s/2+.02,$t,-.35],[s/2+.3,$t,-.35],.04),tt.add([s/2+.02,$t,.35],[s/2+.3,$t,.35],.04),tt.add([s/2+.3,$t,-.35],[s/2+.3,$t,.35],.04)}},h=-1,p=-1,_=(tt,mt)=>{if(!(tt===h&&Math.abs(mt-p)<.001)){h=tt,p=mt,c.reset(),l.reset();for(let ft=0;ft<tt;ft++){let $t=ft*r+ft*1.6*mt;u(c,$t,0,0),f(l,$t)}c.commit(),l.commit()}},y=It.mastro.gaiola,m=new be;n.add(m);let d=[],S=tt=>{let mt=tt.clone();return mt.transparent=!0,d.push(mt),mt};i.gaiolaVermelho=S(i.vermelho),i.gaiolaDeck=S(i.deck),i.gaiolaEscuro=S(i.escuro),i.gaiolaAco=S(i.aco);let L=new pn(m,i.gaiolaVermelho,120);{let mt=-y.h+2.4,ft=2.4,$t=[[-1.45,-1.45],[1.45,-1.45],[1.45,1.45],[-1.45,1.45]];for(let[he,se]of $t)L.add([he,mt,se],[he,ft,se],.09);for(let he of[mt,mt+2.9,mt+5.8,ft-.3])for(let se=0;se<4;se++){let[pe,ye]=$t[se],[Ee,me]=$t[(se+1)%4];he>mt+5&&he<ft-.5&&se===1||L.add([pe,he,ye],[Ee,he,me],.06)}for(let he of[0,2,3]){let[se,pe]=$t[he],[ye,Ee]=$t[(he+1)%4];for(let me=0;me<3;me++){let nn=mt+me*2.9,Ye=nn+2.9;L.add([se,nn,pe],[ye,Ye,Ee],.04)}}for(let he of[mt+.6,ft-.8])for(let[se,pe]of $t)L.add([se*.78,he,pe*.78],[se*.78,he+.3,pe*.78],.13);L.commit()}let M=new be;M.position.y=-r,m.add(M),e(M,new ce(y.L,.12,3.2),i.gaiolaDeck).position.set(1.45+y.L/2,-.06,0);let b=new pn(M,i.gaiolaVermelho,40);for(let tt of[-1.6,1.6])b.add([1.6,0,tt],[1.6,1.1,tt],.03),b.add([1.45+y.L,0,tt],[1.45+y.L,1.1,tt],.03),b.add([1.6,1.1,tt],[1.45+y.L,1.1,tt],.03);b.add([1.45+y.L,1.1,-1.6],[1.45+y.L,1.1,1.6],.03),b.commit(),e(m,new ze(.19,.19,3.2,20),i.gaiolaEscuro).position.set(s/2+.62,-y.h+2.4+5.2,0);let x=e(m,new ze(.09,.09,1,14),i.gaiolaAco),E=e(m,new ce(.5,.16,.9),i.gaiolaEscuro),I=-1,U=tt=>{if(!(Math.abs(tt-I)<.001)){I=tt;for(let mt of d)mt.opacity=tt,mt.depthWrite=tt>.5,mt.needsUpdate=!0}},N=new be;n.add(N);let P=It.anel,D=e(N,new ze(P.diametro/2,P.diametro/2,.26,64),i.aco);D.position.y=.13;let G=e(N,new ce(s+.3,.12,s+.3),i.amareloMastro);G.position.y=0;let Z=new pn(N,i.aco,P.dentes,Du);for(let tt=0;tt<P.dentes;tt++){let mt=tt/P.dentes*Math.PI*2,ft=P.diametro/2,$t=ft+.06;Z.add([ft*Math.cos(mt),.13,ft*Math.sin(mt)],[$t*Math.cos(mt),.13,$t*Math.sin(mt)],.035,.2)}Z.commit();let W=new be;N.add(W);let j=It.pivot,q=e(W,new ce(j.l,.22,j.l),i.caixaAnel);q.position.y=Qi-.11;let Q=(P.diametro/2+.06)*(P.dentesPinhao/P.dentes)+.02,et=[];for(let tt of[-1,1]){let mt=tt*(P.diametro/2+.06+Q),ft=new be;ft.position.set(mt,.13,0),W.add(ft),e(ft,new ze(Q-.03,Q-.03,.22,24),i.aco);let $t=new pn(ft,i.aco,P.dentesPinhao,Du);for(let se=0;se<P.dentesPinhao;se++){let pe=se/P.dentesPinhao*Math.PI*2;$t.add([(Q-.04)*Math.cos(pe),0,(Q-.04)*Math.sin(pe)],[(Q+.03)*Math.cos(pe),0,(Q+.03)*Math.sin(pe)],.03,.2)}$t.commit(),e(W,new ze(.21,.24,.7,20),i.escuro).position.set(mt,Qi+.35,0),et.push(ft)}e(W,new ui(j.L*.55,j.h,j.l,3,.08),i.caixaAnel).position.set(.2,Qi+j.h/2,0);let pt=new be;pt.position.set(2,Qi+.2,j.l/2+.85),W.add(pt),e(pt,new ui(1.6,2.1,1.6,3,.06),i.amarelo).position.y=1.05,e(pt,new ce(1.62,1.1,1.62),i.vidro,!1).position.y=1.35,e(pt,new ce(2.6,.08,1.9),i.deck).position.set(-.3,-.02,.1);let at=Qi+j.h,kt=It.lanca.larguraCordas/2,R=new be;W.add(R);let B=ji.map(tt=>{let mt=new be;mt.userData.s=tt,R.add(mt);let ft=new pn(mt,i.amarelo,90),he=Math.max(1,Math.round((tt.x1-tt.x0)/2.5)),se=(tt.x1-tt.x0)/he;for(let pe=0;pe<=he;pe++){let ye=tt.x0+pe*se,Ee=at+Dc(ye);if(ft.add([ye,at,-kt],[ye,Ee,0],.035),ft.add([ye,at,kt],[ye,Ee,0],.035),pe<he){let me=ye+se,nn=at+Dc(me);ft.add([ye,at,-kt],[me,at,-kt],.062),ft.add([ye,at,kt],[me,at,kt],.062),ft.add([ye,Ee,0],[me,nn,0],.062);let Ye=(Math.round(ye/se)+tt.n)%2===0;ft.add(Ye?[ye,at,-kt]:[me,at,-kt],Ye?[me,nn,0]:[ye,Ee,0],.03),ft.add(Ye?[me,at,kt]:[ye,at,kt],Ye?[ye,Ee,0]:[me,nn,0],.03),ft.add(Ye?[ye,at,-kt]:[ye,at,kt],Ye?[me,at,kt]:[me,at,-kt],.028)}}return ft.commit(),mt});e(W,new ce(5,.16,2.9),i.deck).position.set(3.2,at-.2,0),e(W,new ce(.9,.6,.7),i.escuro).position.set(3.6,at+.2,.95);let st=e(W,new cr(.22,16,12),i.vermelho);st.position.set(65.1,at+Dc(65)+.3,0);let St=new dn({map:Vg("POTAIN","#1d1726"),roughness:.7}),Ht=(tt,mt,ft,$t,he,se,pe=.06)=>{for(let Ee of[1,-1]){let me=e(tt,new _n(mt,ft),St,!1);me.position.set($t,he,se+Ee*pe/2),me.rotation.y=Ee>0?0:Math.PI}e(tt,new ce(mt,ft,pe*.9),i.vermelho,!1).position.set($t,he,se)};Ht(W,2.2,.55,5.5,at+2.95,.56);let Mt=It.contralanca,Dt=new be;W.add(Dt);let Gt=new pn(Dt,i.amarelo,160),wt=Mt.largura/2,Jt=7;for(let tt=0;tt<=Jt;tt++){let mt=-(tt/Jt)*Mt.comprimento;if(Gt.add([mt,at,-wt],[mt,at,wt],.05),tt<Jt){let ft=-((tt+1)/Jt)*Mt.comprimento;Gt.add([mt,at,-wt],[ft,at,-wt],.11,.2),Gt.add([mt,at,wt],[ft,at,wt],.11,.2),Gt.add(tt%2?[mt,at,-wt]:[mt,at,wt],tt%2?[ft,at,wt]:[ft,at,-wt],.035),Gt.add([mt,at-1.6*(1-tt/Jt),0],[ft,at-1.6*(1-(tt+1)/Jt),0],.08),Gt.add([mt,at,-wt],[ft,at-1.6*(1-(tt+1)/Jt),0],.03),Gt.add([mt,at,wt],[ft,at-1.6*(1-(tt+1)/Jt),0],.03)}for(let ft of[-wt,wt])Gt.add([mt,at,ft],[mt,at+1.05,ft],.025)}for(let tt of[-wt,wt])Gt.add([0,at+1.05,tt],[-Mt.comprimento,at+1.05,tt],.025),Gt.add([0,at+.55,tt],[-Mt.comprimento,at+.55,tt],.02);Gt.commit(),e(Dt,new ce(Mt.comprimento,.06,Mt.largura-.3),i.deck).position.set(-Mt.comprimento/2,at+.07,0);let te=It.guincho,ee=new be;ee.position.set(-3.6,at+.1,0),Dt.add(ee);let jt=e(ee,new ui(te.L,te.h,te.l,2,.05),i.caixaGuincho);jt.position.y=te.h/2;let A=e(ee,new ze(te.tambor/2,te.tambor/2,te.l-.1,28),i.aco);A.rotation.x=Math.PI/2,A.position.y=te.h/2;let Ft=e(ee,new ce(.03,te.tambor+.02,te.l-.1),i.escuro);Ft.position.y=te.h/2;let Vt=e(ee,new ze(.28,.3,.75,20),i.escuro);Vt.rotation.x=Math.PI/2,Vt.position.set(-te.L/2-.2,te.h/2,0),e(Dt,new ui(1.2,1.6,.6,2,.04),i.escuro).position.set(-7.5,at+.9,-.7);let g=new be;Dt.add(g);let z=[];{let tt=-Mt.comprimento+.6,mt=[...Array(4).fill(It.lastro.blocos[0]),...Array(4).fill(It.lastro.blocos[1])];for(let ft of mt){let $t=e(g,new ce(ft.e,ft.L,ft.l),i.lastro);$t.position.set(tt+ft.e/2,at-.3-ft.L/2,0),$t.userData.x0=$t.position.x,z.push($t),tt+=ft.e+.03}for(let ft of[-.5,.5])e(g,new ce(4.6,.18,.12),i.amarelo).position.set(-Mt.comprimento+2.9,at-.25,ft)}Ht(Dt,3.2,.8,-Mt.comprimento+2.5,at+1.7,0,.1);let k=It.carro,Y=new be;W.add(Y);let rt=e(Y,new ui(k.L,k.h*.55,k.l,2,.04),i.caixaCarro);rt.position.y=at-.12-k.h*.55/2;for(let tt of[-1,1])for(let mt of[-1,1]){let ft=e(Y,new ze(.16,.16,.12,18),i.aco);ft.rotation.x=Math.PI/2,ft.position.set(tt*.6,at+.02,mt*(kt+.1))}for(let tt of[-1,1]){let mt=e(Y,new ze(.26,.26,.1,24),i.aco);mt.rotation.x=Math.PI/2,mt.position.set(tt*.42,at-.12-k.h*.55-.1,0)}let dt=It.moufle,J=new be;W.add(J);for(let tt of[-1,1])e(J,new ui(dt.L*.62,dt.h*.58,.05,2,.03),i.escuro).position.set(0,dt.h*.58/2+.72,tt*(dt.l/2-.03));for(let tt of[-1,1]){let mt=e(J,new ze(.3,.3,.14,24),i.aco);mt.rotation.x=Math.PI/2,mt.position.set(tt*.42,1.28,0)}let nt=e(J,new Xi(.26,.085,12,24,Math.PI*1.25),i.aco);nt.rotation.z=Math.PI*.62,nt.position.set(.1,.32,0),e(J,new ze(.075,.075,.55,12),i.aco).position.set(0,.62,0);let At=new pn(W,i.cabo,16),ct=It.balde,ht=new be;n.add(ht);let Ct=e(ht,new ze(ct.diametro/2,ct.diametro/2-.12,ct.altura-.55,28,1,!0),i.amarelo);Ct.material=i.amarelo.clone(),Ct.material.side=ln,Ct.position.y=.55+(ct.altura-.55)/2;let Bt=e(ht,new ze(ct.diametro/2-.12,.28,.55,28),i.amarelo);Bt.position.y=.275;let Xt=e(ht,new Xi(ct.diametro/2+.02,.04,8,32),i.escuro);Xt.rotation.x=Math.PI/2,Xt.position.y=ct.altura;let O=e(ht,new ze(ct.diametro/2-.08,ct.diametro/2-.1,1,28),i.betaoFresco);e(ht,new ce(.6,.06,.06),i.escuro).position.set(ct.diametro/2+.2,.6,0);let it=e(ht,new Xi(ct.diametro/2-.05,.045,8,24,Math.PI),i.escuro);it.position.y=ct.altura;let gt=new pn(ht,i.cabo,4),xt=new be;n.add(xt);let ot=new pn(xt,i.amareloMastro,40);u(ot,0,0,0),ot.commit();let Ot=new pn(xt,i.cabo,4),Lt=new On({color:"#d2bef4",transparent:!0,opacity:.55,depthWrite:!1}),ve=new On({color:yn.vermelho,transparent:!0,opacity:.8,depthWrite:!1}),ae=new xe(new Ts(.985,1,128),Lt);ae.rotation.x=-Math.PI/2,ae.position.y=.05,ae.renderOrder=5;let Ge=new xe(new Ts(.985,1,128,1),ve);Ge.rotation.x=-Math.PI/2,Ge.position.y=.06,Ge.renderOrder=5,n.add(ae,Ge);let qe=e(n,new ce(1,.02,.1),Lt,!1);qe.position.y=.055;let Zr=-1,dl=tt=>{if(!(Math.abs(tt-Zr)<.001)){Zr=tt;for(let mt of[i.caixaAnel,i.caixaGuincho,i.caixaCarro])mt.transparent=tt>.001,mt.opacity=1-.82*tt,mt.depthWrite=tt<.5,mt.needsUpdate=!0}},hn={yG:0,carroW:new Mn,moufleW:new Mn,pontaW:new Mn,guinchoW:new Mn,anelW:new Mn,gaiolaW:new Mn,cabW:new Mn,lastroW:new Mn},Sn=new Mn,Jr=tt=>{let mt=tt.explode??0;dl(tt.xray??0),_(tt.n,mt);let ft=zr(tt.n,tt.gaiola)+tt.n*1.6*mt;hn.yG=ft,N.position.y=ft,W.rotation.y=-tt.az*Fi;for(let[Ie,sn]of et.entries())sn.rotation.y=(Ie?1:-1)*tt.az*Fi*(P.dentes/P.dentesPinhao)*1+tt.az*Fi;m.position.y=ft;let $t=(tt.gaiolaVis??(tt.seccao||tt.gaiola>.01?1:0))*(1-mt);U($t),m.visible=$t>.01;let he=Math.floor((ft-tt.gaiola-8.3)/(r/3))*(r/3)+r/6,se=-y.h+2.4+5.2-1.6,pe=he-ft;x.scale.y=Math.max(.2,se-pe),x.position.set(s/2+.62,(se+pe)/2,0),E.position.set(s/2+.45,pe-.08,0);for(let Ie of B)Ie.position.x=(Ie.userData.s.n-1)*1.8*mt;Dt.position.x=-2.2*mt;for(let[Ie,sn]of z.entries())sn.position.x=sn.userData.x0-Ie*.7*mt;Y.position.x=tt.r+(tt.r>20.3?2*1.8*mt:tt.r>10.5?1.8*mt:0);let ye=tt.h-ft;J.position.set(Y.position.x+tt.thR*(ft+at-tt.h),ye,tt.thT*(ft+at-tt.h)),J.rotation.z=-tt.thR,J.rotation.x=tt.thT,At.reset();let Ee=at-.12-k.h*.55-.1;for(let Ie of[-1,1])for(let sn of[-1,1])At.add([Y.position.x+Ie*.42,Ee,sn*.05],[J.position.x+Ie*.42,J.position.y+1.28,J.position.z+sn*.05],.014);At.add([-3.6,at+.1+te.h/2+te.tambor/2,.1],[.6,at+.9,.1],.016),At.add([.6,at+.9,.1],[Y.position.x-k.L/2,at+.2,.1],.016),At.add([Y.position.x+k.L/2,at+.2,-.1],[64.6,at+.3,-.1],.016),At.add([3.6,at+.2,.95],[Y.position.x-k.L/2,at-.2,.5],.012),At.commit(),A.rotation.z=tt.cabo/(Math.PI*te.tambor)*Math.PI*2;let me=tt.carga>0&&!tt.seccao,nn=Math.max(0,tt.balde-ct.vazio),Ye=Math.min(1,nn/(ct.capacidade*ct.densidade));if(O.scale.y=Math.max(.02,Ye*(ct.altura-.6)),O.position.y=.55+O.scale.y/2,me?(J.getWorldPosition(Sn),ht.position.set(Sn.x,Sn.y-Lu,Sn.z),ht.rotation.y=-tt.az*Fi,ht.rotation.z=-tt.thR):(ht.position.set(tt.baldeX??20,.02,tt.baldeZ??0),ht.rotation.set(0,0,0)),gt.reset(),me)for(let Ie of[[-1,-1],[1,-1],[1,1],[-1,1]])gt.add([0,Lu,0],[Ie[0]*.55,ct.altura,Ie[1]*.55],.018);if(gt.commit(),xt.visible=!!tt.seccao,Ot.reset(),tt.seccao==="gancho"){J.getWorldPosition(Sn),xt.position.set(Sn.x,Sn.y-Iu-r,Sn.z),xt.rotation.y=-tt.az*Fi;for(let Ie of[[-1,-1],[1,-1],[1,1],[-1,1]])Ot.add([0,r+Iu,0],[Ie[0]*s/2,r,Ie[1]*s/2],.02)}else if(tt.seccao==="plataforma"||tt.seccao==="deslizar"){let Ie=It.telescopagem.plataforma*(1-(tt.desliza??0));xt.position.set(Ie,zr(tt.n,0),0),xt.rotation.y=0}Ot.commit();let In=tt.alcance??0;ae.visible=In>.01,Ge.visible=In>.01&&tt.carga>0,qe.visible=In>.01,ae.scale.setScalar(tt.r),Lt.opacity=.55*In,ve.opacity=.8*In;let zi=Us(tt.carga);Ge.scale.setScalar(Math.max(.1,zi)),qe.scale.x=65,qe.position.set(32.5*Math.cos(tt.az*Fi),.055,32.5*Math.sin(tt.az*Fi)),qe.rotation.y=-tt.az*Fi,Y.getWorldPosition(hn.carroW),J.getWorldPosition(hn.moufleW),st.getWorldPosition(hn.pontaW),ee.getWorldPosition(hn.guinchoW),D.getWorldPosition(hn.anelW),m.getWorldPosition(hn.gaiolaW),pt.getWorldPosition(hn.cabW),g.getWorldPosition(hn.lastroW),hn.lastroW.x-=Mt.comprimento*.8};return Jr({r:20,h:2.9,az:0,carga:0,n:It.seccoesIniciais,gaiola:0,cabo:0,balde:4.5,thR:0,thT:0}),{root:n,update:Jr,M:i,todos:t,out:hn,gir:W,giratoria:N,mastro:c,carro:Y,moufle:J,balde:ht,secNova:xt,gaiola:m,alturaSobGancho:tt=>wu(tt.n,tt.gaiola),yLanca:tt=>ts(tt.n,tt.gaiola)}}var ti=V,Bs={bg:"#0b0a10",chao:"#1e1b2b",marca:"#3d3656",sombra:"#000000"},Gg="varying vec3 vW; void main(){ vec4 w = modelMatrix * vec4(position, 1.0); vW = w.xyz; gl_Position = projectionMatrix * viewMatrix * w; }",Hg=`uniform vec3 uG; uniform vec3 uM; uniform vec3 uBg; uniform vec3 uC; varying vec3 vW;
   void main(){
     // lajes de bet\xE3o de 6 m com juntas, uma faixa de brita para l\xE1 dos 70 m
     vec2 p = vW.xz;
